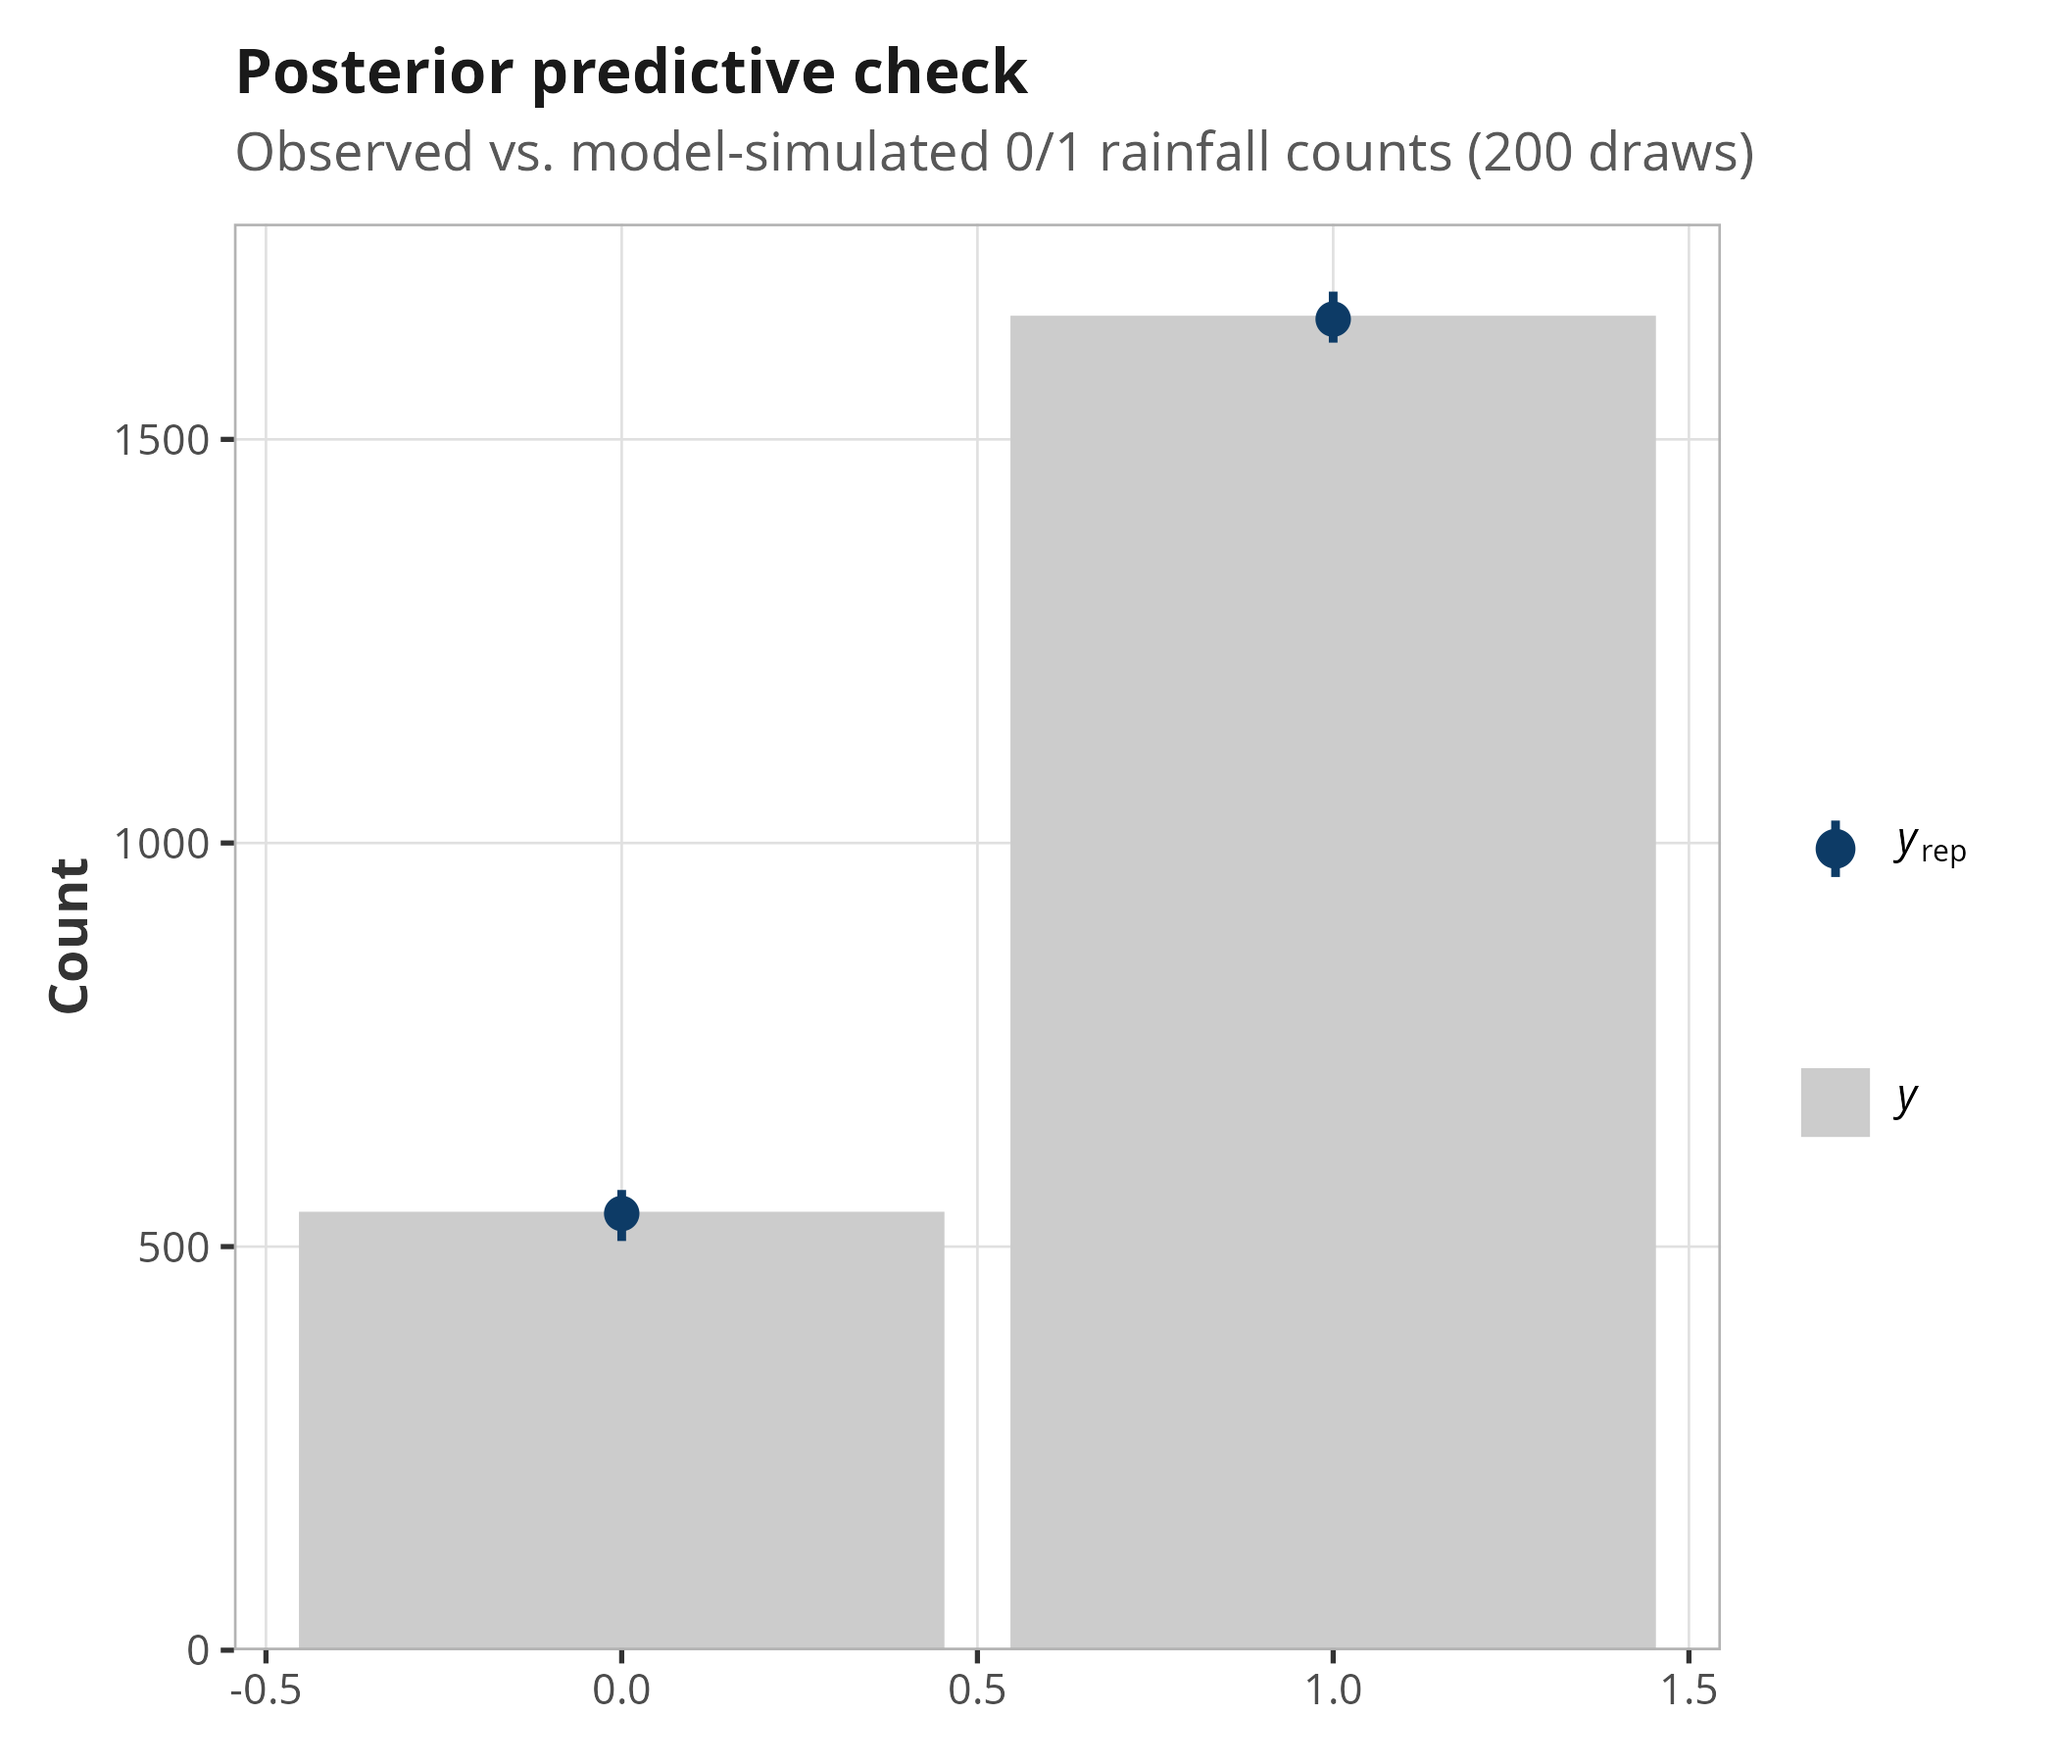
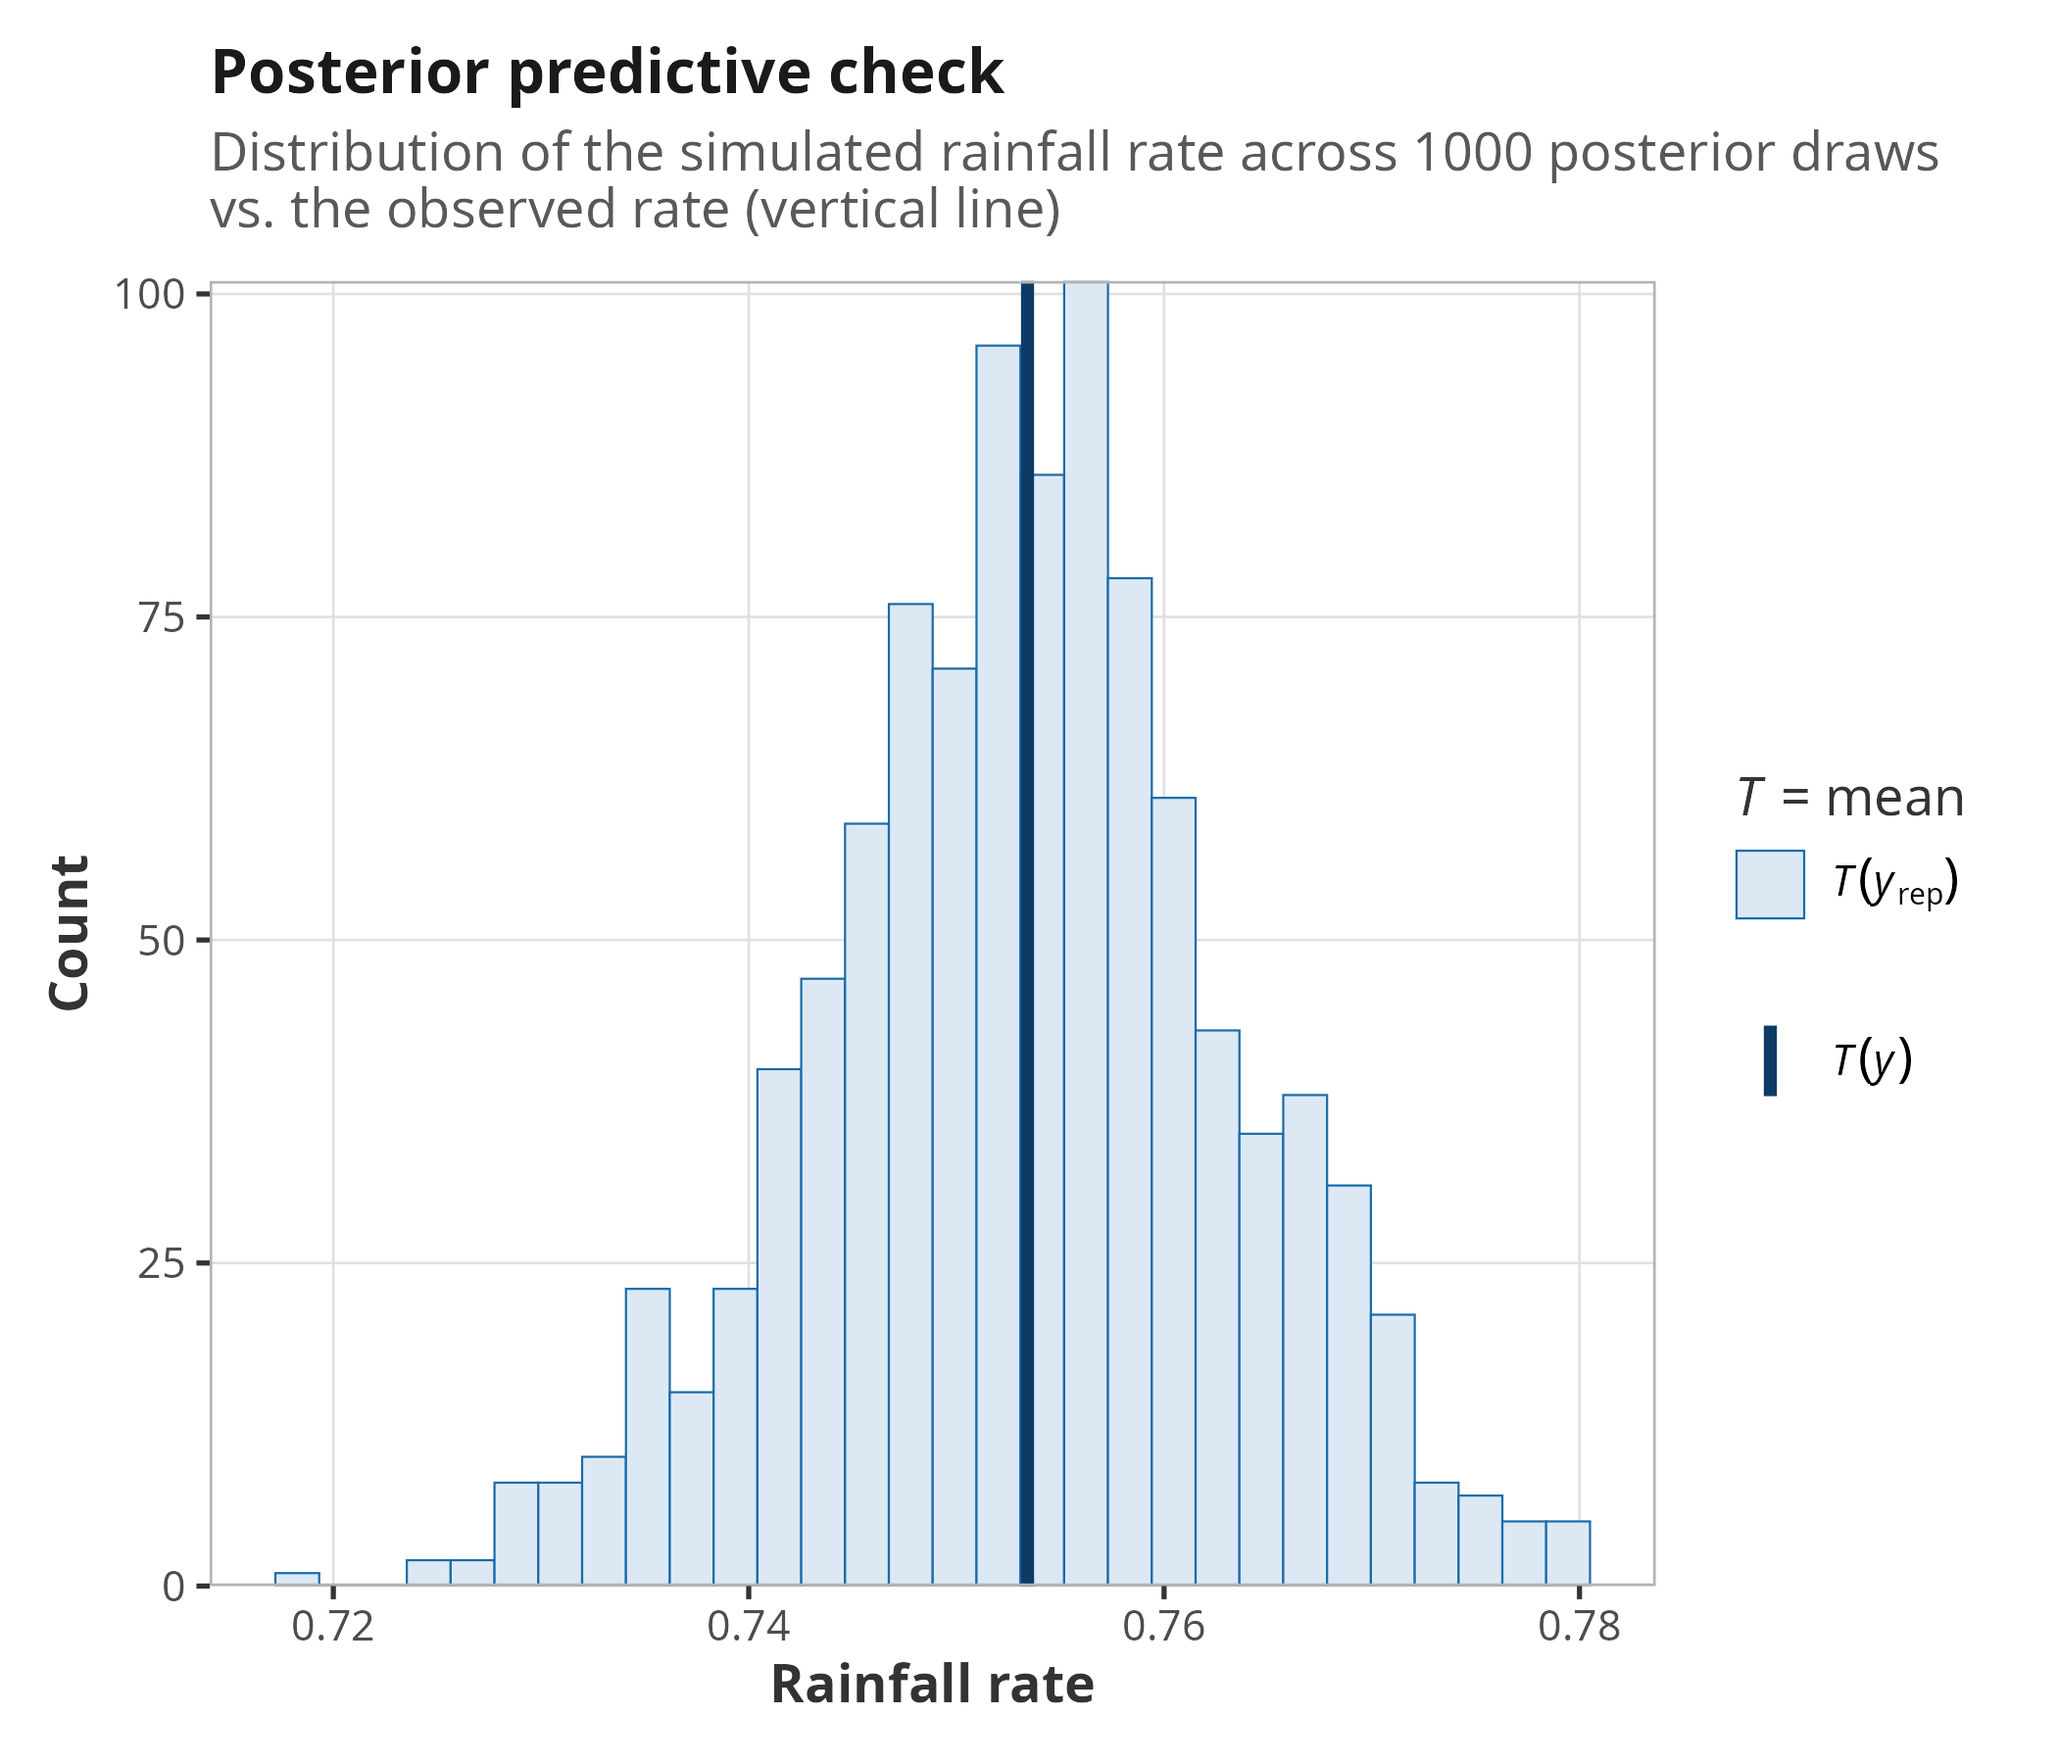
update ppp plot

diff --git a/README.md b/README.md
@@ -153,13 +153,13 @@ A moderate seasonal swing survives even after controlling for the meteorological
 
 Out-of-fold predicted probabilities track the diagonal closely across the full range. This means that the model is ranking correctly (AUC) and also assigning genuinely well-calibrated probabilities (important, since the actual submission is a probability).
 
-Bin by bin, the biggest deviations from the diagonal are: a mild *underconfidence* around 0.15–0.25 predicted (observed rain rate ≈4–6 points higher than predicted there), and a mild *overconfidence* around 0.45–0.55 predicted (observed rate ≈6 points lower than predicted). Both sit in the thinnest bins (50–110 out-of-fold points each), so part of this is plausibly just noise rather than a systematic bias. The bin that matters most in practice — 0.9–1.0 predicted, which alone holds over half of all 2,190 out-of-fold predictions (1,127) — is close to perfectly calibrated (95.4% observed vs. 95.0% predicted), which is reassuring given how much of the dataset lives in that high-probability region (recall the 75%/25% rain/no-rain base rate).
+Some deviations are observable: a mild *underconfidence* around 0.15–0.25 predicted (observed rain rate ≈4–6 points higher than predicted there), and a mild *overconfidence* around 0.45–0.55 predicted (observed rate ≈6 points lower than predicted). Both in the thinnest bins (50–110 out-of-fold points each), so part of this is plausibly just noise rather than a systematic bias. The bin that matters most in practice — 0.9–1.0 predicted, which alone holds over half of all 2,190 out-of-fold predictions (1,127) — is close to perfectly calibrated (95.4% observed vs. 95.0% predicted), which is reassuring given how much of the dataset lives in that high-probability region (recall the 75%/25% rain/no-rain base rate).
 
 ### Posterior predictive check
 
 ![Posterior predictive check](tables_figures/diagnostics/pp_check_bars.png)
 
-The model's simulated 0/1 rainfall proportions (200 draws) closely match the observed counts.
+Each of the 1,000 posterior draws simulates a full rainfall dataset; the histogram shows the overall rain rate across those simulated datasets, and the vertical line marks the actually observed rate (0.753). The observed value sits right in the middle of the simulated distribution — the model isn't systematically over- or under-predicting how often it rains overall.
 
 ## 7. Kaggle result
 
